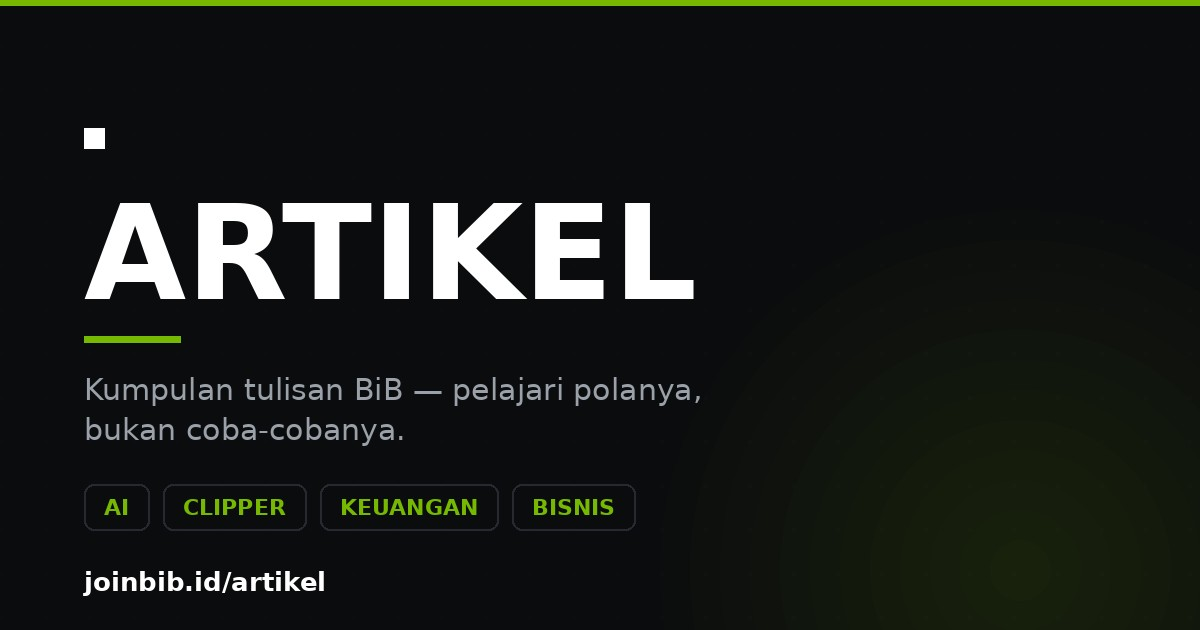
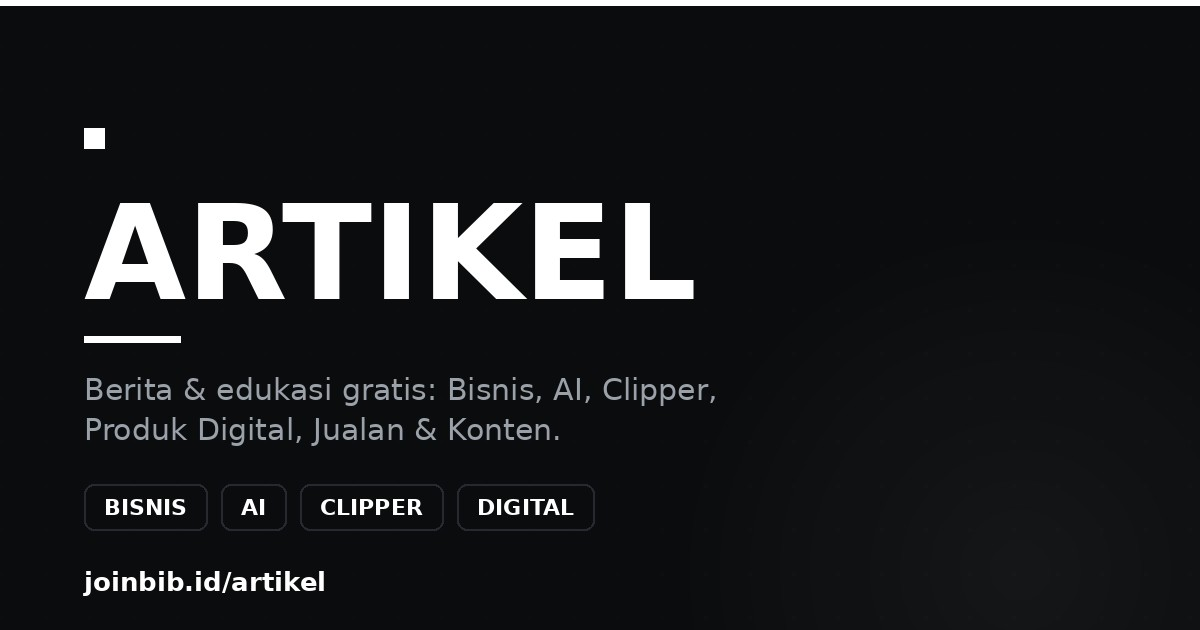
Artikel: warna monokrom + notifikasi WhatsApp & push browser
- Aksen halaman /artikel diubah dari hijau neon ke putih (var --ac)
  supaya jadi wadah netral dan tidak kembar dengan IkhlasClip.
  OG image ikut dibuat ulang versi monokrom + copy baru.
- Kartu langganan jadi dua: Saluran WhatsApp (langsung aktif) dan
  push browser lewat OneSignal.
- Kartu push otomatis tersembunyi selama ONESIGNAL_APP_ID belum diisi,
  jadi pengunjung tidak melihat tombol yang belum berfungsi.
- Tambah service worker OneSignal di root agar notifikasi berlaku
  untuk seluruh situs.

Claude-Session: https://claude.ai/code/session_01UZsZPNgGW5W4282GpqdYic

diff --git a/artikel/index.html b/artikel/index.html
@@ -29,6 +29,7 @@
   --muted:#9AA1A9;
   --paper:#FFFFFF;
   --nv:#76B900;
+  --ac:#FFFFFF;      /* aksen halaman artikel = putih (monokrom BiB) */
   --wa:#25D366;
   --disp:'Space Grotesk',sans-serif;
   --body:'Inter',sans-serif;
@@ -72,16 +73,21 @@ a{color:inherit}
 .hero .count{
   display:inline-flex;align-items:center;gap:9px;margin-top:24px;
   font-family:var(--disp);font-weight:600;font-size:.85rem;letter-spacing:.06em;
-  color:var(--nv);text-transform:uppercase;
+  color:var(--ac);text-transform:uppercase;
 }
-.hero .count::before{content:"";width:8px;height:8px;background:var(--nv);flex:none}
+.hero .count::before{content:"";width:8px;height:8px;background:var(--ac);flex:none}
 
 /* ---------- kartu notifikasi ---------- */
+[hidden]{display:none!important}
+.notifs{display:grid;grid-template-columns:1fr;gap:13px;margin-bottom:34px}
+.notifs.duo{grid-template-columns:1fr 1fr}
+@media(max-width:820px){.notifs.duo{grid-template-columns:1fr}}
 .notif{
   display:flex;align-items:center;gap:16px;
   background:linear-gradient(180deg,#14161A,#101216);
   border:1px solid var(--line);border-radius:14px;
-  padding:17px 19px;margin-bottom:34px;text-decoration:none;
+  padding:17px 19px;text-decoration:none;
+  font:inherit;color:inherit;text-align:left;width:100%;cursor:pointer;
   transition:transform .25s ease,border-color .25s ease,box-shadow .25s ease;
 }
 .notif:hover{transform:translateY(-2px);border-color:#3A3E45;box-shadow:0 12px 30px rgba(0,0,0,.45)}
@@ -101,6 +107,15 @@ a{color:inherit}
   background:var(--wa);color:#062B14;padding:10px 18px;border-radius:10px;white-space:nowrap;
 }
 .notif:hover .ngo{filter:brightness(1.07)}
+
+/* varian putih (notifikasi browser) */
+.notif-push .nico{background:rgba(255,255,255,.09);border-color:rgba(255,255,255,.24)}
+.notif-push .nico svg{stroke:#fff}
+.notif-push .ngo{background:var(--paper);color:var(--ink)}
+.notif-push:focus-visible{outline:2px solid #fff}
+.notif-push.aktif .ngo{background:transparent;color:var(--muted);border:1.5px solid var(--line);padding:8.5px 16px}
+.notif-push.aktif .nico{background:rgba(255,255,255,.05)}
+
 @media(max-width:620px){
   .notif{flex-wrap:wrap;gap:13px;padding:16px}
   .notif .ntxt{flex:1 1 calc(100% - 58px)}
@@ -120,7 +135,7 @@ a{color:inherit}
   transition:border-color .2s;
 }
 .search input::placeholder{color:#6D747C}
-.search input:focus{border-color:var(--nv)}
+.search input:focus{border-color:var(--ac)}
 .search svg{position:absolute;left:15px;top:50%;transform:translateY(-50%);width:17px;height:17px;stroke:#6D747C;fill:none;stroke-width:2}
 
 .frow{display:flex;align-items:center;gap:9px;flex-wrap:nowrap;overflow-x:auto;scrollbar-width:none;padding-bottom:2px}
@@ -137,7 +152,7 @@ a{color:inherit}
 }
 .chip:hover{border-color:#3A3E45;color:var(--text)}
 .chip.on{background:var(--paper);border-color:var(--paper);color:var(--ink)}
-.chip.on.nv{background:var(--nv);border-color:var(--nv);color:#0B0C0E}
+.chip.on.nv{background:var(--ac);border-color:var(--ac);color:#0B0C0E}
 
 /* ---------- grid ---------- */
 .grid{
@@ -150,7 +165,7 @@ a{color:inherit}
   transition:transform .28s ease,border-color .28s ease,box-shadow .28s ease;
 }
 .card:hover{transform:translateY(-4px);border-color:#33373E;box-shadow:0 14px 34px rgba(0,0,0,.5)}
-.card:focus-visible{outline:2px solid var(--nv);outline-offset:3px}
+.card:focus-visible{outline:2px solid var(--ac);outline-offset:3px}
 .thumb{position:relative;aspect-ratio:1200/630;background:#16181C;overflow:hidden}
 .thumb img{width:100%;height:100%;object-fit:cover;transition:transform .5s ease}
 .card:hover .thumb img{transform:scale(1.04)}
@@ -160,7 +175,7 @@ a{color:inherit}
   font-family:var(--disp);font-weight:600;font-size:.68rem;letter-spacing:.07em;text-transform:uppercase;
   padding:4px 9px;border-radius:5px;border:1px solid var(--line);color:var(--muted);
 }
-.tag.niche{color:var(--nv);border-color:rgba(118,185,0,.4);background:rgba(118,185,0,.07)}
+.tag.niche{color:var(--ac);border-color:rgba(255,255,255,.34);background:rgba(255,255,255,.06)}
 .card h3{
   font-family:var(--disp);font-weight:700;font-size:1.06rem;line-height:1.34;
   letter-spacing:-.01em;color:#fff;margin-bottom:9px;
@@ -172,7 +187,7 @@ a{color:inherit}
   font-size:.79rem;color:#6D747C;
 }
 .cmeta .go{font-family:var(--disp);font-weight:700;color:var(--text);font-size:.85rem}
-.card:hover .cmeta .go{color:var(--nv)}
+.card:hover .cmeta .go{color:var(--ac)}
 
 .empty{padding:70px 0 90px;text-align:center;color:var(--muted)}
 .empty .sqm{width:11px;height:11px;background:#3A3E45;margin:0 auto 18px}
@@ -223,16 +238,29 @@ footer a:hover{color:#fff}
     <div class="count" id="count"></div>
   </section>
 
-  <a class="notif" href="https://whatsapp.com/channel/0029VbD3xRK6LwHdluqg330X" target="_blank" rel="noopener">
-    <span class="nico">
-      <svg viewBox="0 0 24 24"><path d="M18 8a6 6 0 10-12 0c0 6-2 7-2 7h16s-2-1-2-7"/><path d="M10.3 20a2 2 0 003.4 0"/></svg>
-    </span>
-    <span class="ntxt">
-      <b>Nyalakan notifikasi artikel baru</b>
-      <span>Ikuti Saluran WhatsApp BiB — tiap tulisan baru langsung masuk HP-mu. Gratis, dan bisa berhenti kapan saja.</span>
-    </span>
-    <span class="ngo">Aktifkan</span>
-  </a>
+  <div class="notifs" id="notifs">
+    <a class="notif" href="https://whatsapp.com/channel/0029VbD3xRK6LwHdluqg330X" target="_blank" rel="noopener">
+      <span class="nico">
+        <svg viewBox="0 0 24 24" fill="#25D366" stroke="none"><path d="M12 2a10 10 0 00-8.6 15L2 22l5.2-1.4A10 10 0 1012 2zm5.8 14.2c-.2.7-1.2 1.3-1.9 1.4-.5.1-1.1.1-1.8-.1-.4-.1-1-.3-1.7-.6-3-1.3-4.9-4.3-5.1-4.5-.1-.2-1.2-1.5-1.2-2.9s.7-2 1-2.3c.2-.3.5-.4.7-.4h.5c.2 0 .4 0 .6.5l.8 2c.1.2.1.3 0 .5l-.3.5-.4.4c-.1.1-.3.3-.1.6.2.3.8 1.3 1.7 2.1 1.1 1 2 1.3 2.3 1.4.3.1.4.1.6-.1l.8-1c.2-.2.4-.2.6-.1l2 1c.2.1.4.2.4.3.1.1.1.5-.1 1.3z"/></svg>
+      </span>
+      <span class="ntxt">
+        <b>Notifikasi lewat WhatsApp</b>
+        <span>Ikuti Saluran BiB — tiap tulisan baru langsung masuk HP-mu. Gratis, berhenti kapan saja.</span>
+      </span>
+      <span class="ngo">Ikuti</span>
+    </a>
+
+    <button class="notif notif-push" id="pushCard" type="button" hidden>
+      <span class="nico">
+        <svg viewBox="0 0 24 24"><path d="M18 8a6 6 0 10-12 0c0 6-2 7-2 7h16s-2-1-2-7"/><path d="M10.3 20a2 2 0 003.4 0"/></svg>
+      </span>
+      <span class="ntxt">
+        <b id="pushTitle">Notifikasi lewat browser</b>
+        <span id="pushDesc">Nyalakan sekali, pemberitahuan artikel baru muncul langsung di HP atau laptopmu.</span>
+      </span>
+      <span class="ngo" id="pushBtn">Nyalakan</span>
+    </button>
+  </div>
 
   <div class="tools">
     <div class="search">
@@ -472,6 +500,76 @@ const ARTIKEL = [
   });
 
   render();
+
+  /* ═══════════════════════════════════════════════════════════════
+     🔔  NOTIFIKASI BROWSER (OneSignal)
+     ---------------------------------------------------------------
+     CARA MENGAKTIFKAN (sekali saja):
+       1. Daftar gratis di https://onesignal.com
+       2. New App → Web Push → isi nama situs "BiB" & URL
+          https://joinbib.id  (pilih "My site is not fully HTTPS"? TIDAK)
+       3. Salin "App ID"-nya, tempel menggantikan GANTI-INI di bawah.
+       4. Commit & push. Kartu "Notifikasi lewat browser" otomatis muncul.
+
+     Kalau App ID belum diisi, kartunya SENGAJA disembunyikan supaya
+     pengunjung tidak melihat tombol yang belum berfungsi.
+
+     Kirim notifikasi tiap artikel baru: dashboard OneSignal →
+     Messages → New Push → isi judul + link artikelnya.
+
+     Catatan iPhone: notifikasi browser hanya jalan kalau situs
+     ditambahkan ke Home Screen dulu. Karena itu tombol WhatsApp
+     tetap ada — jangkauannya jauh lebih luas.
+     ═══════════════════════════════════════════════════════════════ */
+  var ONESIGNAL_APP_ID = "GANTI-INI";
+
+  if (ONESIGNAL_APP_ID.indexOf("GANTI-INI") === -1) {
+    var card  = document.getElementById('pushCard');
+    var btn   = document.getElementById('pushBtn');
+    var desc  = document.getElementById('pushDesc');
+    var judul = document.getElementById('pushTitle');
+
+    window.OneSignalDeferred = window.OneSignalDeferred || [];
+    var s = document.createElement('script');
+    s.src = "https://cdn.onesignal.com/sdks/web/v16/OneSignalSDK.page.js";
+    s.defer = true;
+    document.head.appendChild(s);
+
+    window.OneSignalDeferred.push(function(OneSignal){
+      OneSignal.init({
+        appId: ONESIGNAL_APP_ID,
+        serviceWorkerPath: "/OneSignalSDKWorker.js",
+        serviceWorkerParam: { scope: "/" }
+      }).then(function(){
+        if (!OneSignal.Notifications.isPushSupported()) return; // biarkan tersembunyi
+        card.hidden = false;
+        document.getElementById('notifs').classList.add('duo');
+
+        function sync(){
+          var aktif = OneSignal.User.PushSubscription.optedIn === true;
+          card.classList.toggle('aktif', aktif);
+          btn.textContent   = aktif ? 'Aktif ✓' : 'Nyalakan';
+          judul.textContent = aktif ? 'Notifikasi browser aktif' : 'Notifikasi lewat browser';
+          desc.textContent  = aktif
+            ? 'Kamu akan diberi tahu tiap artikel baru terbit. Klik lagi untuk mematikan.'
+            : 'Nyalakan sekali, pemberitahuan artikel baru muncul langsung di HP atau laptopmu.';
+        }
+        sync();
+        OneSignal.User.PushSubscription.addEventListener('change', sync);
+
+        card.addEventListener('click', function(){
+          btn.textContent = 'Sebentar…';
+          Promise.resolve(
+            OneSignal.User.PushSubscription.optedIn
+              ? OneSignal.User.PushSubscription.optOut()
+              : OneSignal.Notifications.requestPermission().then(function(){
+                  return OneSignal.User.PushSubscription.optIn();
+                })
+          ).catch(function(){}).then(sync);
+        });
+      }).catch(function(){ /* gagal init: kartu tetap tersembunyi */ });
+    });
+  }
 
   var hdr = document.getElementById('hdr');
   addEventListener('scroll', function(){ hdr.classList.toggle('on', scrollY > 12); }, {passive:true});

diff --git a/OneSignalSDKWorker.js b/OneSignalSDKWorker.js
@@ -1,0 +1,4 @@
+/* Service worker OneSignal — WAJIB ada di root domain (joinbib.id/OneSignalSDKWorker.js)
+   supaya notifikasi berlaku untuk seluruh situs, bukan cuma /artikel.
+   Jangan dipindah atau di-rename. */
+importScripts("https://cdn.onesignal.com/sdks/web/v16/OneSignalSDK.sw.js");

diff --git a/CLAUDE.md b/CLAUDE.md
@@ -16,6 +16,8 @@ Situs statis GitHub Pages (branch `main` = live di joinbib.id). Semua halaman HT
   - **Katalog otomatis:** daftar artikel diatur lewat array `ARTIKEL` di dalam `artikel/index.html` (ada blok komentar "TAMBAH ARTIKEL BARU DI SINI"). Tiap artikel punya `niche` (topik: AI/Clipper/Keuangan/Bisnis — boleh >1) + `jenis` (Panduan/Tutorial/Edukasi/Rekomendasi). **Tombol filter dibuat otomatis dari data**, jadi topik/jenis baru langsung muncul sendiri tanpa ngoding.
   - **Wajib tiap nambah artikel:** (1) taruh file di `/artikel/`, (2) tambah 1 objek ke array `ARTIKEL`, (3) tambah link ke `<noscript>` di file yang sama, (4) update `sitemap.xml`.
   - _Artikel clipper TIDAK dipindah_ — tetap di `/clipper/`, tapi ikut tampil di katalog ini.
+  - **Warna:** halaman ini sengaja **monokrom (aksen putih, var `--ac`)**, bukan hijau neon — supaya jadi wadah netral: warna tiap sub-brand (hijau IkhlasClip, dst) yang menonjol lewat thumbnail, dan tidak bentrok kalau nanti ada sub-brand warna baru.
+  - **Notifikasi:** 2 kartu langganan. (1) Saluran WhatsApp — selalu aktif. (2) Push browser via OneSignal — baru muncul setelah `ONESIGNAL_APP_ID` di `artikel/index.html` diisi; selama masih `GANTI-INI` kartunya sengaja disembunyikan. Service worker-nya `/OneSignalSDKWorker.js` di root (jangan dipindah).
 - **`/clipper/`** — sub-brand **IkhlasClip**. Landing (`index.html`), produk utama `ngeclip-cuan` (checkout Lynk.id), + panduan/artikel clipper (cara-jadi-clipper, platform-clipper-indonesia, platform-clipper-luar-negeri, clipaffiliates, clipping-net). Aset khusus: logo platform, screenshot tutorial (`ca-*`, `cn-*`), OG image `og-*.jpg`.
 - **`/digital/`** — halaman bio **joinbib.id/digital** (`index.html`) + landing produk digital: `sutradara-digital` dan `10template`. Aset: video demo (`Dekstop*.mp4`, `Mobile*.mp4`), screenshot `belajar-website-*.png`, logo.
 - **`/digital/10template/`** — pendukung produk 10template: halaman `purchase.html` + asetnya.
